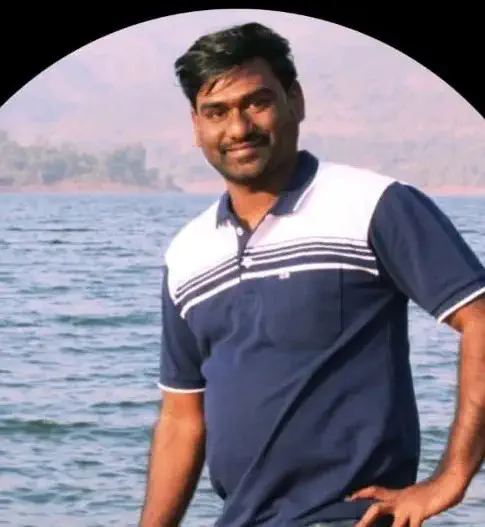
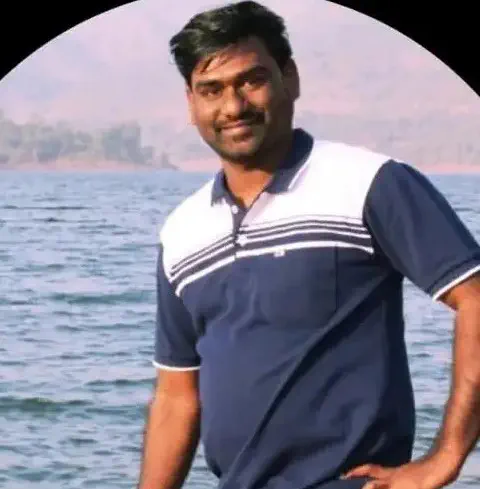
update profile images at career

diff --git a/src/components/MeetOurHeros/career.jsx b/src/components/MeetOurHeros/career.jsx
@@ -19,7 +19,7 @@ const testimonials = [
   {
     rating: "5.0",
     text: "As an industrial, securing capacity and ensuring safety in the production process. This is a critical role.",
-    name: "Mayor Yambal",
+    name: "Mayur Yambal",
     profession: "Chief Platform & Delivery Officer at iauro Systems",
     image: "./Images/girl3.webp",
   },
@@ -28,7 +28,7 @@ const testimonials = [
     text: "As an industrial, securing capacity and ensuring safety in the production process. This is a critical role.",
     name: "Mahesh Yambal",
     profession: "Senior Test Engineer at Josh",
-    image: "./Images/boy2.webp",
+    image: "./Images/Mahesh Yambal.webp",
   },
   {
     rating: "5.0",

diff --git a/src/components/MeetOurHeros/meetHeros.jsx b/src/components/MeetOurHeros/meetHeros.jsx
@@ -28,7 +28,7 @@ const heroesData = [
     name: "Mahesh Yambal",
     position: "Senior Test Engineer at Josh",
     linkedinUrl: "https://www.linkedin.com/in/mahesh-yambal-b18152227/",
-    image: "./Images/girl3.webp",
+    image: "./Images/Mahesh Yambal.webp",
   },
   {
     name: "Baslingappa Songi",

diff --git a/src/components/MeetOurHeros/career.css b/src/components/MeetOurHeros/career.css
@@ -66,8 +66,8 @@
   left: 80%;
 }
 .profile-image:nth-child(8) {
-  top: 277px;
-  left: 51%;
+  top: 245px;
+  left: 60%;
 }
 .profile-image:nth-child(9) {
   top: 230px;
